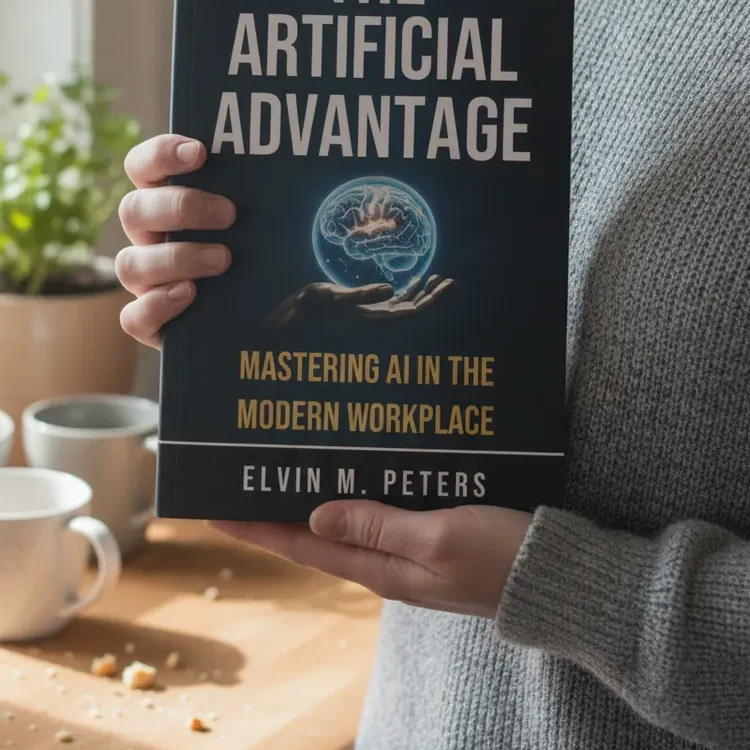
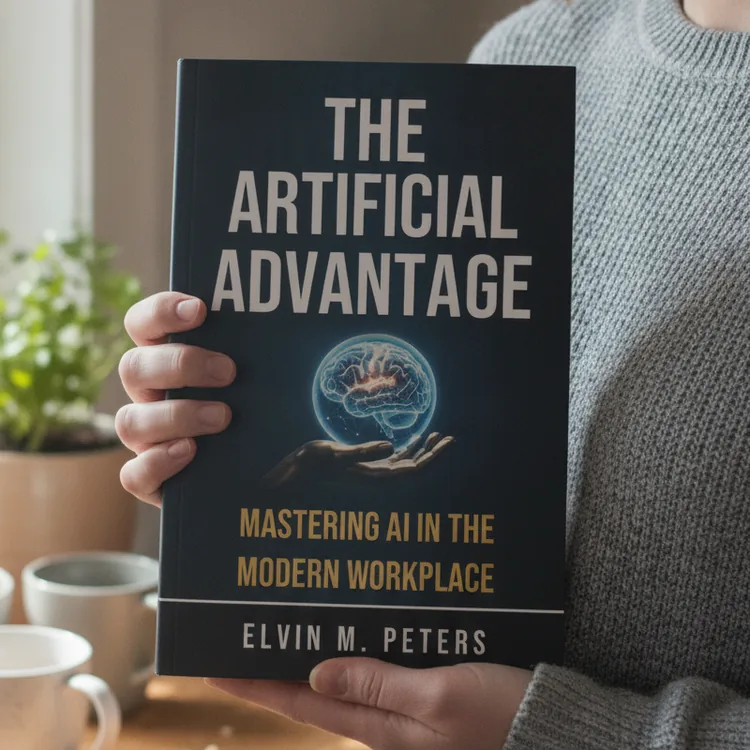
Band picture shows whole on desktop (no crop); kitchen photo re-cropped so the full title shows
On 768 px and wider the dark band used a fixed 520 px height with object-fit cover, which cut the
top and bottom of the book cover on wide screens. It now shows the whole picture at its own shape,
up to 1040 px wide, centred on the colour of the picture's own edges. The kitchen photo beside
"Your next step" is re-cropped square from the original (products/book_images/ugc_hands_kitchen.png)
so "THE" is no longer cut. Rebuild changed only the stylesheet version stamp on each page.

diff --git a/css/landing.css b/css/landing.css
@@ -495,7 +495,8 @@ body.lp .btn, body.lp .lp-cta{ box-sizing:border-box; max-width:100% }
 .lp-band{ background:#0a1828; padding:0; line-height:0 }
 .lp-band picture{ display:block }
 .lp-band img{ display:block; width:100%; max-width:1344px; height:auto; margin:0 auto }
-@media (min-width:768px){ .lp-band img{ max-width:none; height:520px; object-fit:cover } }
+/* desktop: the whole picture at its own shape (no crop), centred on the colour of the picture's own edges so no seam shows */
+@media (min-width:768px){ .lp-band{ background:#161d28 } .lp-band img{ width:100%; max-width:1040px; height:auto; object-fit:contain } }
 .lp-ohero__shot img{ mix-blend-mode:multiply }
 body.lp:has(.lp-progress) .ep-block.ep-video{ max-width:36rem }
 /* "What it adds up to" rows on a phone: the name wraps first, the price sits under it, so the two never touch */
@@ -600,7 +601,7 @@ body.lp .lp-stack--pay .lp-pay__go .lp-note{ margin:12px 0 0; font:14px/20px var
 @media (min-width:768px){ body.lp .lp-sec.lp-ordered{ padding-top:16px; padding-bottom:0 } body.lp .lp-sec.lp-ordered + .lp-sec{ padding-top:24px } }
 /* band: a fixed box so nothing flashes white or jumps while the picture loads */
 .lp-band img{ aspect-ratio:720 / 576; background:#0a1828 }
-@media (min-width:768px){ .lp-band img{ aspect-ratio:auto } }
+@media (min-width:768px){ .lp-band img{ aspect-ratio:1344 / 768; background:#161d28 } }
 /* the line above an early yes button */
 .lp-above{ margin:8px 0 12px; font:600 17px/24px var(--sans); color:var(--lp-navy) }
 .lp-basket__thumb{ flex:none; width:56px; height:90px; object-fit:contain; border-radius:3px }

diff --git a/book/thanks/vault/index.html b/book/thanks/vault/index.html
@@ -63,7 +63,7 @@ a=t.getElementsByTagName(n)[0],a.parentNode.insertBefore(u,a))}(window,document,
   <link href="https://fonts.googleapis.com/css2?family=Inter:wght@400;500;600;700&family=EB+Garamond:ital,wght@0,400;0,600;1,400&display=swap" rel="stylesheet" />
   <meta name="color-scheme" content="light" />
   <link rel="stylesheet" href="/css/site.css?v=6671ca86" />
-  <link rel="stylesheet" href="/css/landing.css?v=cd9380c1" />
+  <link rel="stylesheet" href="/css/landing.css?v=cc6c8881" />
   <script src="/js/site.js?v=ee628fa7"></script>
   <style>body.lp .lp-hero__grid{ max-width:720px } body.lp .lp-hero{ padding-top:32px; padding-bottom:0 } body.lp .lp-hero h1{ margin-bottom:0 } body.lp .ep-block.ep-video{ max-width:720px } body.lp .ep-row{ flex-direction:column; align-items:stretch; gap:12px } body.lp .ep-row .btn{ width:100%; min-height:60px; font-size:20px; font-weight:700 } body.lp .ep-note{ text-align:left } @media (max-width:767px){ body.lp .lp-hero{ padding-top:8px } body.lp .ep-block:not(#lifestyle ~ .ep-block){ padding-top:6px; padding-bottom:6px } body.lp .ep-block.ep-video{ padding-bottom:4px } }</style>
 </head>

diff --git a/book/thanks/free-chapter/index.html b/book/thanks/free-chapter/index.html
@@ -63,7 +63,7 @@ a=t.getElementsByTagName(n)[0],a.parentNode.insertBefore(u,a))}(window,document,
   <link href="https://fonts.googleapis.com/css2?family=Inter:wght@400;500;600;700&family=EB+Garamond:ital,wght@0,400;0,600;1,400&display=swap" rel="stylesheet" />
   <meta name="color-scheme" content="light" />
   <link rel="stylesheet" href="/css/site.css?v=6671ca86" />
-  <link rel="stylesheet" href="/css/landing.css?v=cd9380c1" />
+  <link rel="stylesheet" href="/css/landing.css?v=cc6c8881" />
   <script src="/js/site.js?v=ee628fa7"></script>
   <style>body.lp .lp-hero__grid{ max-width:720px } body.lp .lp-hero{ padding-top:32px; padding-bottom:0 } body.lp .lp-hero h1{ margin-bottom:0 } body.lp .ep-block.ep-video{ max-width:720px } body.lp .ep-row{ flex-direction:column; align-items:stretch; gap:12px } body.lp .ep-row .btn{ width:100%; min-height:60px; font-size:20px; font-weight:700 } body.lp .ep-note{ text-align:left }</style>
 </head>

diff --git a/book/start/index.html b/book/start/index.html
@@ -63,7 +63,7 @@ a=t.getElementsByTagName(n)[0],a.parentNode.insertBefore(u,a))}(window,document,
   <link href="https://fonts.googleapis.com/css2?family=Inter:wght@400;500;600;700&family=EB+Garamond:ital,wght@0,400;0,600;1,400&display=swap" rel="stylesheet" />
   <meta name="color-scheme" content="light" />
   <link rel="stylesheet" href="/css/site.css?v=6671ca86" />
-  <link rel="stylesheet" href="/css/landing.css?v=cd9380c1" />
+  <link rel="stylesheet" href="/css/landing.css?v=cc6c8881" />
   <script src="/js/site.js?v=ee628fa7"></script>
   <style>@media (min-width:768px){ body.lp .lp-hero{ padding-bottom:24px } body.lp .lp-hero + .ep-block{ padding-top:0 } }</style>
 </head>

diff --git a/book/last-chance/index.html b/book/last-chance/index.html
@@ -63,7 +63,7 @@ a=t.getElementsByTagName(n)[0],a.parentNode.insertBefore(u,a))}(window,document,
   <link href="https://fonts.googleapis.com/css2?family=Inter:wght@400;500;600;700&family=EB+Garamond:ital,wght@0,400;0,600;1,400&display=swap" rel="stylesheet" />
   <meta name="color-scheme" content="light" />
   <link rel="stylesheet" href="/css/site.css?v=6671ca86" />
-  <link rel="stylesheet" href="/css/landing.css?v=cd9380c1" />
+  <link rel="stylesheet" href="/css/landing.css?v=cc6c8881" />
   <script src="/js/site.js?v=ee628fa7"></script>
 </head>
 <body class="lp" data-store-step="last-chance">

diff --git a/book/manual/index.html b/book/manual/index.html
@@ -63,7 +63,7 @@ a=t.getElementsByTagName(n)[0],a.parentNode.insertBefore(u,a))}(window,document,
   <link href="https://fonts.googleapis.com/css2?family=Inter:wght@400;500;600;700&family=EB+Garamond:ital,wght@0,400;0,600;1,400&display=swap" rel="stylesheet" />
   <meta name="color-scheme" content="light" />
   <link rel="stylesheet" href="/css/site.css?v=6671ca86" />
-  <link rel="stylesheet" href="/css/landing.css?v=cd9380c1" />
+  <link rel="stylesheet" href="/css/landing.css?v=cc6c8881" />
   <script src="/js/site.js?v=ee628fa7"></script>
 </head>
 <body class="lp" data-store-step="manual-only">

diff --git a/book/thank-you/index.html b/book/thank-you/index.html
@@ -63,7 +63,7 @@ a=t.getElementsByTagName(n)[0],a.parentNode.insertBefore(u,a))}(window,document,
   <link href="https://fonts.googleapis.com/css2?family=Inter:wght@400;500;600;700&family=EB+Garamond:ital,wght@0,400;0,600;1,400&display=swap" rel="stylesheet" />
   <meta name="color-scheme" content="light" />
   <link rel="stylesheet" href="/css/site.css?v=6671ca86" />
-  <link rel="stylesheet" href="/css/landing.css?v=cd9380c1" />
+  <link rel="stylesheet" href="/css/landing.css?v=cc6c8881" />
   <script src="/js/site.js?v=ee628fa7"></script>
 </head>
 <body class="lp" data-store-step="thank-you">

diff --git a/book/operator-bundle/index.html b/book/operator-bundle/index.html
@@ -63,7 +63,7 @@ a=t.getElementsByTagName(n)[0],a.parentNode.insertBefore(u,a))}(window,document,
   <link href="https://fonts.googleapis.com/css2?family=Inter:wght@400;500;600;700&family=EB+Garamond:ital,wght@0,400;0,600;1,400&display=swap" rel="stylesheet" />
   <meta name="color-scheme" content="light" />
   <link rel="stylesheet" href="/css/site.css?v=6671ca86" />
-  <link rel="stylesheet" href="/css/landing.css?v=cd9380c1" />
+  <link rel="stylesheet" href="/css/landing.css?v=cc6c8881" />
   <script src="/js/site.js?v=ee628fa7"></script>
 </head>
 <body class="lp" data-store-step="upsell">

diff --git a/book/12-commandments/index.html b/book/12-commandments/index.html
@@ -63,7 +63,7 @@ a=t.getElementsByTagName(n)[0],a.parentNode.insertBefore(u,a))}(window,document,
   <link href="https://fonts.googleapis.com/css2?family=Inter:wght@400;500;600;700&family=EB+Garamond:ital,wght@0,400;0,600;1,400&display=swap" rel="stylesheet" />
   <meta name="color-scheme" content="light" />
   <link rel="stylesheet" href="/css/site.css?v=6671ca86" />
-  <link rel="stylesheet" href="/css/landing.css?v=cd9380c1" />
+  <link rel="stylesheet" href="/css/landing.css?v=cc6c8881" />
   <script src="/js/site.js?v=ee628fa7"></script>
 </head>
 <body class="lp">

diff --git a/book/ai-at-home/index.html b/book/ai-at-home/index.html
@@ -63,7 +63,7 @@ a=t.getElementsByTagName(n)[0],a.parentNode.insertBefore(u,a))}(window,document,
   <link href="https://fonts.googleapis.com/css2?family=Inter:wght@400;500;600;700&family=EB+Garamond:ital,wght@0,400;0,600;1,400&display=swap" rel="stylesheet" />
   <meta name="color-scheme" content="light" />
   <link rel="stylesheet" href="/css/site.css?v=6671ca86" />
-  <link rel="stylesheet" href="/css/landing.css?v=cd9380c1" />
+  <link rel="stylesheet" href="/css/landing.css?v=cc6c8881" />
   <script src="/js/site.js?v=ee628fa7"></script>
 </head>
 <body class="lp">

diff --git a/book/checkout/index.html b/book/checkout/index.html
@@ -63,7 +63,7 @@ a=t.getElementsByTagName(n)[0],a.parentNode.insertBefore(u,a))}(window,document,
   <link href="https://fonts.googleapis.com/css2?family=Inter:wght@400;500;600;700&family=EB+Garamond:ital,wght@0,400;0,600;1,400&display=swap" rel="stylesheet" />
   <meta name="color-scheme" content="light" />
   <link rel="stylesheet" href="/css/site.css?v=6671ca86" />
-  <link rel="stylesheet" href="/css/landing.css?v=cd9380c1" />
+  <link rel="stylesheet" href="/css/landing.css?v=cc6c8881" />
   <script src="/js/site.js?v=ee628fa7"></script>
 </head>
 <body class="lp">

diff --git a/book/everything-ai-2026/index.html b/book/everything-ai-2026/index.html
@@ -63,7 +63,7 @@ a=t.getElementsByTagName(n)[0],a.parentNode.insertBefore(u,a))}(window,document,
   <link href="https://fonts.googleapis.com/css2?family=Inter:wght@400;500;600;700&family=EB+Garamond:ital,wght@0,400;0,600;1,400&display=swap" rel="stylesheet" />
   <meta name="color-scheme" content="light" />
   <link rel="stylesheet" href="/css/site.css?v=6671ca86" />
-  <link rel="stylesheet" href="/css/landing.css?v=cd9380c1" />
+  <link rel="stylesheet" href="/css/landing.css?v=cc6c8881" />
   <script src="/js/site.js?v=ee628fa7"></script>
 </head>
 <body class="lp">
